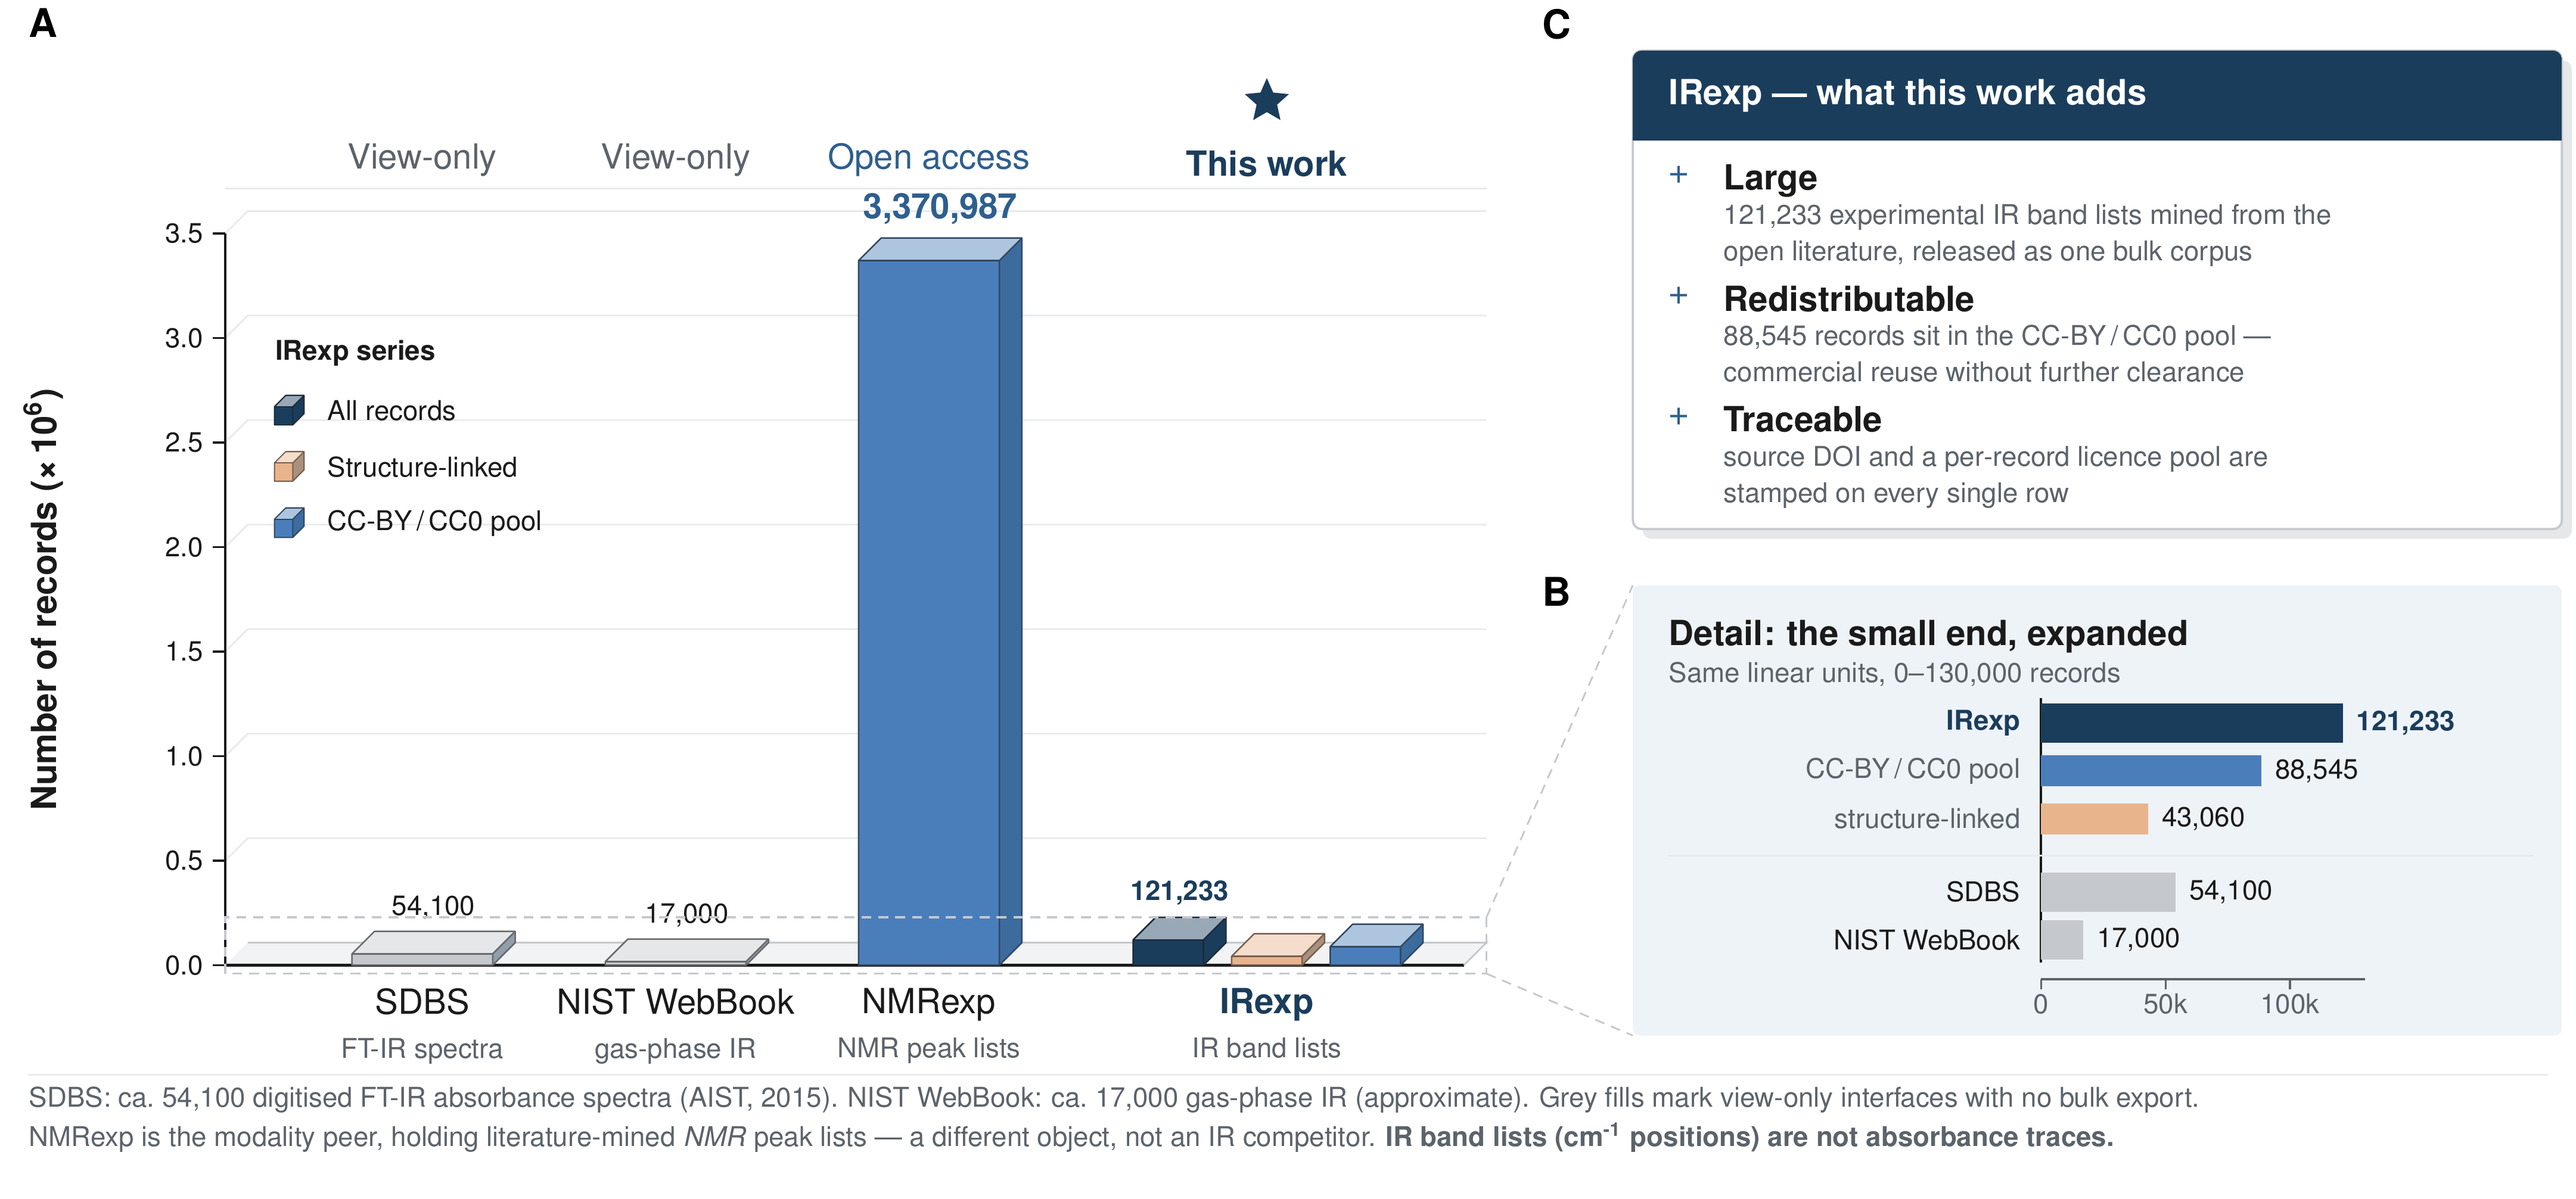
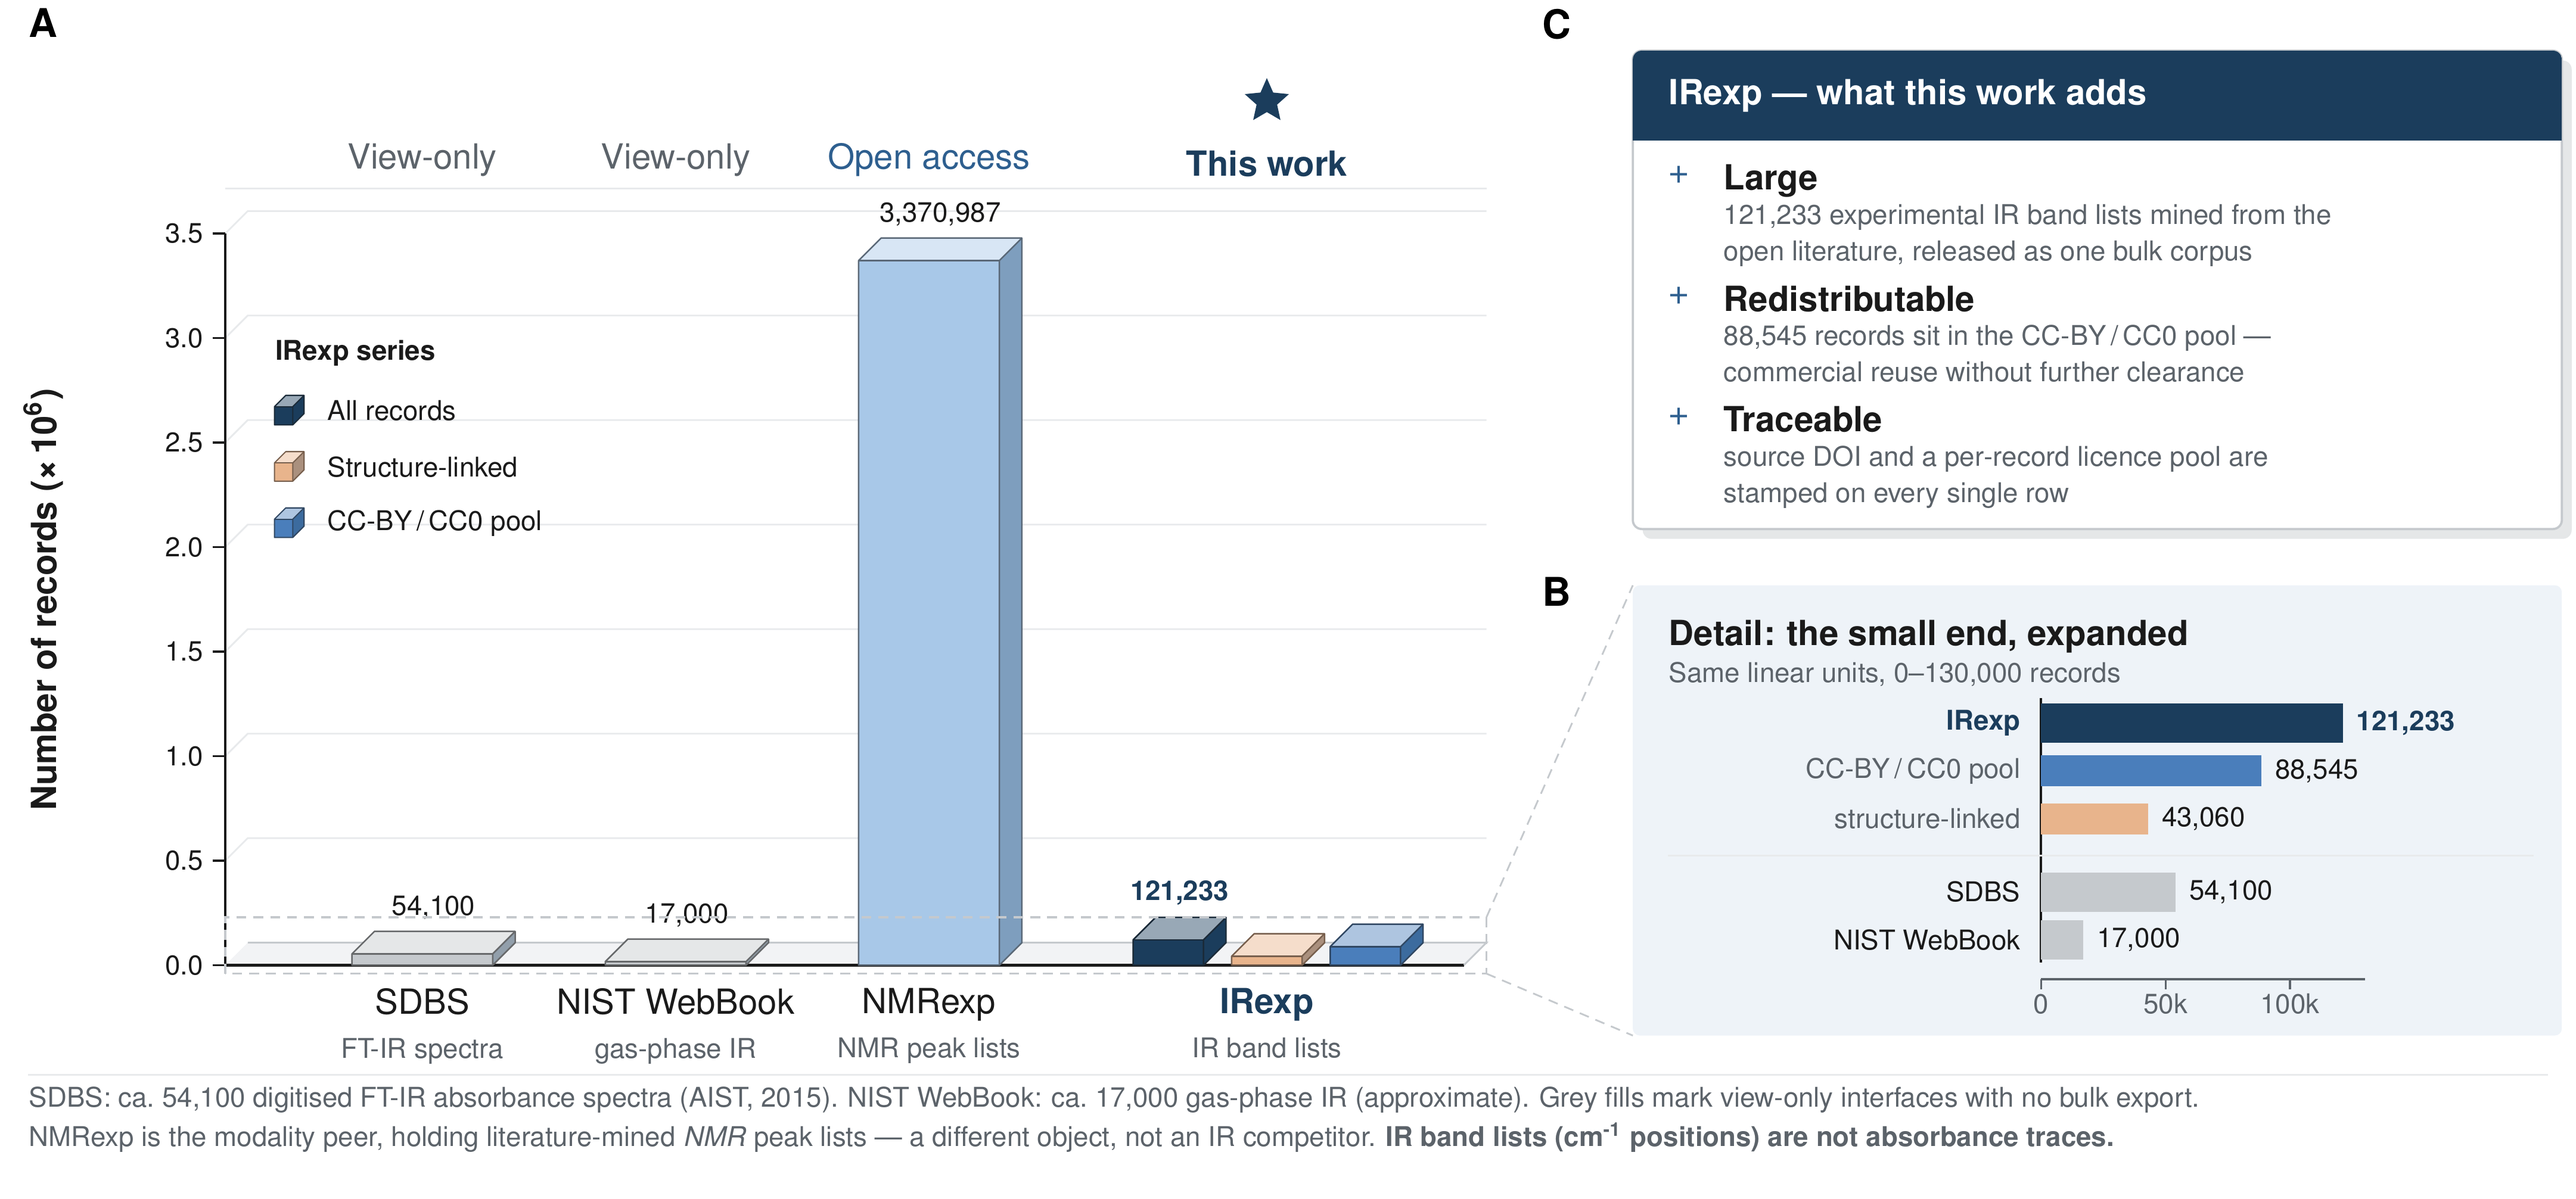
figures(opus): retier the NMRexp bar in Fig 1 as context, not competitor
nmrBlue was carrying two meanings at once: the tall NMRexp bar and the
CC-BY/CC0 pool swatch in the IRexp legend, so the legend invited a misread
of the one bar it does not describe.  NMRexp moves to nmrBlueLight and loses
its bold label, giving three honest tiers - grey view-only, pale blue
open-access-but-different-modality, saturated navy this work - and leaving
IRexp as the only emphasised series.  Matches the manuscript caption, which
states NMRexp is a modality peer and not an IR bar competitor.

Changed region(s): [[0.3123, 0.154, 0.406, 0.8316]]

diff --git a/docs/scientific_data/figures/competition/opus/fig_irexp_positioning.tex b/docs/scientific_data/figures/competition/opus/fig_irexp_positioning.tex
@@ -143,7 +143,10 @@
 
 \IsoBar{\Csdbs}{\Ay}{\hSDBS}{10}{\Adep}{ghost}
 \IsoBar{\Cnist}{\Ay}{\hNIST}{10}{\Adep}{ghost}
-\IsoBar{\Cnmrexp}{\Ay}{\hNMR}{10}{\Adep}{nmrBlue}
+% Pale blue, not the saturated nmrBlue used for the IRexp CC-BY/CC0 pool:
+% that colour is claimed by the legend, and the manuscript is explicit that
+% NMRexp is a different-modality reference point rather than an IR rival.
+\IsoBar{\Cnmrexp}{\Ay}{\hNMR}{10}{\Adep}{nmrBlueLight}
 \IsoBar{\CirexpL}{\Ay}{\hIR}{5}{\Adep}{nmrNavy}
 \IsoBar{\Cirexp}{\Ay}{\hSTR}{5}{\Adep}{nmrPeach}
 \IsoBar{\CirexpR}{\Ay}{\hCOM}{5}{\Adep}{nmrBlue}
@@ -153,8 +156,10 @@
   at ({\Csdbs+\Adep/2},{\Ay+\hSDBS+\Adep+0.8}) {\Lsdbs};
 \node[anchor=south,inner sep=0pt,text=ink,font=\FigSmall]
   at ({\Cnist+\Adep/2},{\Ay+\hNIST+\Adep+0.8}) {\Lnist};
-\node[anchor=south,inner sep=0pt,text=nmrBlueDark,font=\FigBody]
-  at ({\Cnmrexp+\Adep/2},{\Ay+\hNMR+\Adep+0.9}) {\bfseries\Lnmrexp};
+% Same weight as the other reference resources; only IRexp is set bold, so
+% the eye is not pulled to the tallest bar in the field.
+\node[anchor=south,inner sep=0pt,text=ink,font=\FigSmall]
+  at ({\Cnmrexp+\Adep/2},{\Ay+\hNMR+\Adep+0.8}) {\Lnmrexp};
 \node[anchor=south,inner sep=0pt,text=nmrNavy,font=\FigSmall]
   at ({\CirexpL+\Adep/2},{\Ay+\hIR+\Adep+0.8}) {\bfseries\Lirexp};
 
